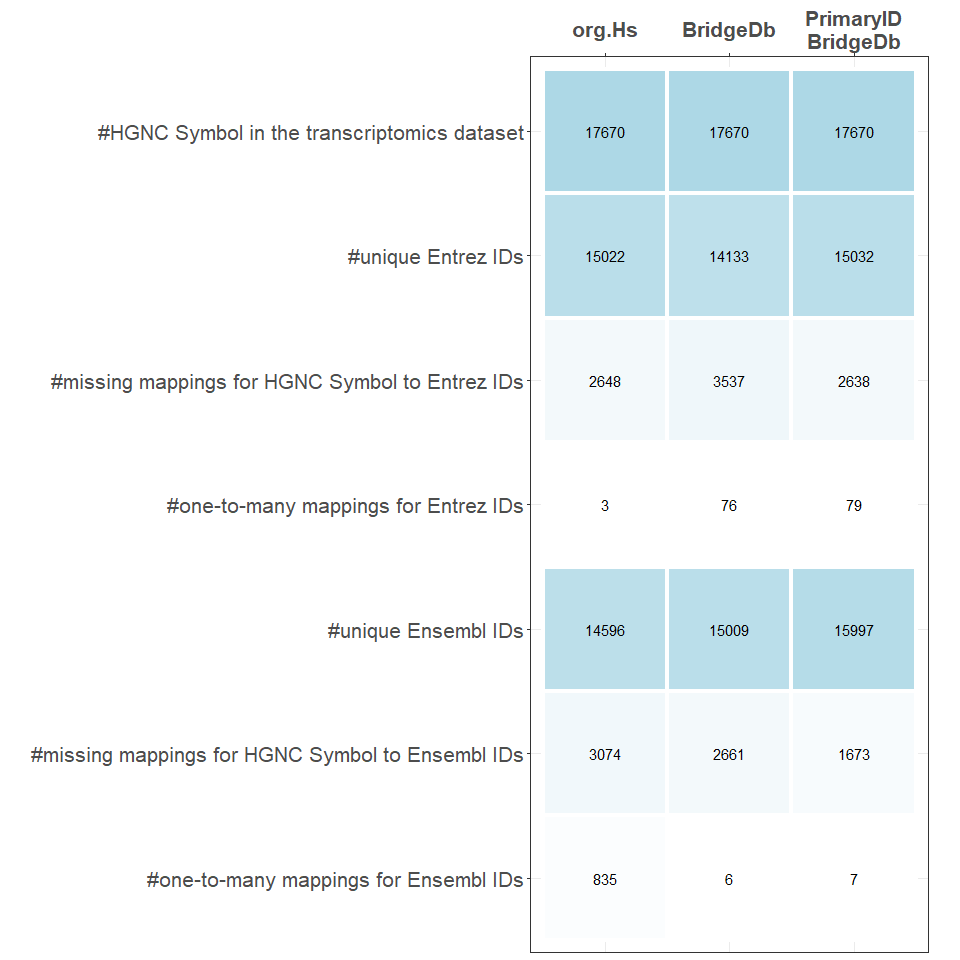
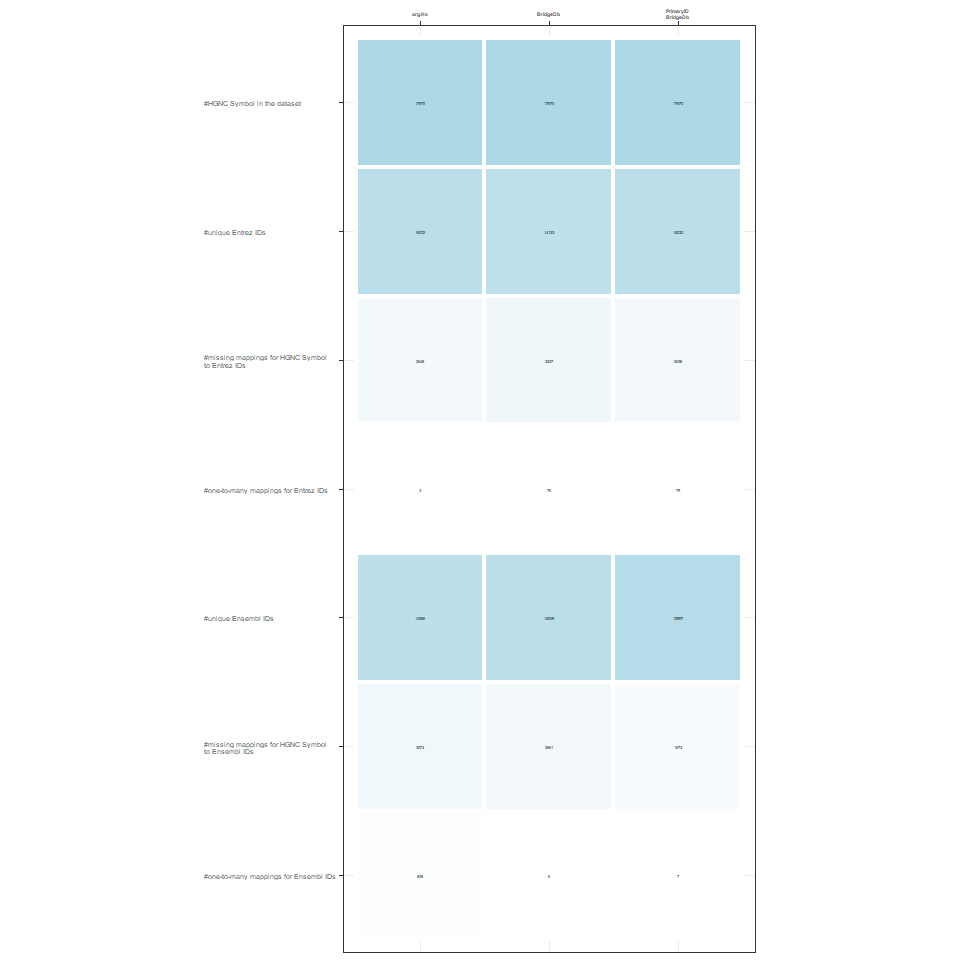
updating the scripts

diff --git a/scripts/2-pathway_analysis_transcriptomics/pathway_analysis_transcriptomics.md b/scripts/2-pathway_analysis_transcriptomics/pathway_analysis_transcriptomics.md
@@ -421,9 +421,13 @@ kable(MappingStats)
 
 ``` r
 CombinePWs_ileum_CD <- Reduce(function(x, y) merge(x, y, all = T), lapply(ls(pattern = "CombinePWs.ileum.*CD"), get), accumulate = F)
+CombinePWs_ileum_CD %>% write.table("results/CombinePWs.ileum_CD.txt", sep = "\t" , quote = FALSE, row.names = FALSE)
 CombinePWs_rectum_CD <- Reduce(function(x, y) merge(x, y, all = T), lapply(ls(pattern = "CombinePWs.rectum.*CD"), get), accumulate = F)
+CombinePWs_rectum_CD %>% write.table("results/CombinePWs.rectum_CD.txt", sep = "\t" , quote = FALSE, row.names = FALSE)
 CombinePWs_ileum_UC <- Reduce(function(x, y) merge(x, y, all = T), lapply(ls(pattern = "CombinePWs.ileum.*UC"), get), accumulate = F)
+CombinePWs_ileum_UC %>% write.table("results/CombinePWs.ileum_UC.txt", sep = "\t" , quote = FALSE, row.names = FALSE)
 CombinePWs_rectum_UC <- Reduce(function(x, y) merge(x, y, all = T), lapply(ls(pattern = "CombinePWs.rectum.*UC"), get), accumulate = F)
+CombinePWs_rectum_UC %>% write.table("results/CombinePWs.rectum_UC.txt", sep = "\t" , quote = FALSE, row.names = FALSE)
 
 #CD
 ##ileum
@@ -436,6 +440,10 @@ CombinePWs_ileum_CD_toPlot <- CombinePWs_ileum_CD_toPlot %>%
   reshape2::melt() %>%
   mutate(pathway = paste0(pathway, ":", CombinePWs_ileum_CD$pathwayTitle[match(pathway, CombinePWs_ileum_CD$pathway)]),
          value = ifelse (is.na(value), 0, value))
+
+(Int_PWs_ileum_CD <- unique(gsub (":.*", "", CombinePWs_ileum_CD_toPlot$pathway))) %>% 
+  write.table("results/Int_PWs_ileum_CD.txt", sep = "\t" , quote = FALSE, row.names = FALSE)
+
 ggplot(CombinePWs_ileum_CD_toPlot, aes(x = variable, y = pathway, fill = value)) +
   geom_tile(color = "white",
             lwd = 1.5,
@@ -463,6 +471,11 @@ CombinePWs_rectum_CD_toPlot <- CombinePWs_rectum_CD_toPlot %>%
   reshape2::melt() %>%
   mutate(pathway = paste0(pathway, ":", CombinePWs_rectum_CD$pathwayTitle[match(pathway, CombinePWs_rectum_CD$pathway)]),
          value = ifelse (is.na(value), 0, value))
+
+(Int_PWs_rectum_CD <- unique(gsub (":.*", "", CombinePWs_rectum_CD_toPlot$pathway))) %>% 
+  write.table("results/Int_PWs_rectum_CD.txt", sep = "\t" , quote = FALSE, row.names = FALSE)
+
+
 ggplot(CombinePWs_rectum_CD_toPlot, aes(x = variable, y = pathway, fill = value)) +
   geom_tile(color = "white",
             lwd = 1.5,
@@ -491,6 +504,10 @@ CombinePWs_ileum_UC_toPlot <- CombinePWs_ileum_UC_toPlot %>%
   reshape2::melt() %>%
   mutate(pathway = paste0(pathway, ":", CombinePWs_ileum_UC$pathwayTitle[match(pathway, CombinePWs_ileum_UC$pathway)]),
          value = ifelse (is.na(value), 0, value))
+
+(Int_PWs_ileum_UC <- unique(gsub (":.*", "", CombinePWs_ileum_UC_toPlot$pathway))) %>% 
+  write.table("results/Int_PWs_ileum_UC.txt", sep = "\t" , quote = FALSE, row.names = FALSE)
+
 ggplot(CombinePWs_ileum_UC_toPlot, aes(x = variable, y = pathway, fill = value)) +
   geom_tile(color = "white",
             lwd = 1.5,
@@ -518,6 +535,12 @@ CombinePWs_rectum_UC_toPlot <- CombinePWs_rectum_UC_toPlot %>%
   reshape2::melt() %>%
   mutate(pathway = paste0(pathway, ":", CombinePWs_rectum_UC$pathwayTitle[match(pathway, CombinePWs_rectum_UC$pathway)]),
          value = ifelse (is.na(value), 0, value))
+
+
+(Int_PWs_rectum_UC <- unique(gsub (":.*", "", CombinePWs_rectum_UC_toPlot$pathway))) %>% 
+  write.table("results/Int_PWs_rectum_UC.txt", sep = "\t" , quote = FALSE, row.names = FALSE)
+
+
 ggplot(CombinePWs_rectum_UC_toPlot, aes(x = variable, y = pathway, fill = value)) +
   geom_tile(color = "white",
             lwd = 1.5,
@@ -529,7 +552,46 @@ ggplot(CombinePWs_rectum_UC_toPlot, aes(x = variable, y = pathway, fill = value)
   theme(axis.text.x = element_text(angle = 90, vjust = 0.5, hjust = 1, size = 16),
         axis.text.y = element_text(size = 16),
         legend.position = "none") +
-  ggtitle("UC (rectum location)")
+  ggtitle("UC (rectum location)") 
 ```
 
 ![](pathway_analysis_transcriptomics_files/figure-markdown_github/Comparison-4.png)
+
+##Print session info and remove datasets:
+
+    ## R version 4.1.2 (2021-11-01)
+    ## Platform: x86_64-w64-mingw32/x64 (64-bit)
+    ## Running under: Windows 10 x64 (build 22000)
+    ## 
+    ## Matrix products: default
+    ## 
+    ## locale:
+    ## [1] LC_COLLATE=English_United Kingdom.1252 
+    ## [2] LC_CTYPE=English_United Kingdom.1252   
+    ## [3] LC_MONETARY=English_United Kingdom.1252
+    ## [4] LC_NUMERIC=C                           
+    ## [5] LC_TIME=English_United Kingdom.1252    
+    ## 
+    ## attached base packages:
+    ## [1] stats     graphics  grDevices utils     datasets  methods   base     
+    ## 
+    ## other attached packages:
+    ## [1] ggplot2_3.3.6     reshape2_1.4.4    SPARQL_1.16       RCurl_1.98-1.6   
+    ## [5] XML_3.99-0.10     knitr_1.39        data.table_1.14.2 dplyr_1.0.9      
+    ## [9] rstudioapi_0.13  
+    ## 
+    ## loaded via a namespace (and not attached):
+    ##  [1] Rcpp_1.0.8.3        highr_0.9           pillar_1.7.0       
+    ##  [4] compiler_4.1.2      BiocManager_1.30.18 plyr_1.8.7         
+    ##  [7] bitops_1.0-7        tools_4.1.2         digest_0.6.29      
+    ## [10] gtable_0.3.0        evaluate_0.15       lifecycle_1.0.1    
+    ## [13] tibble_3.1.7        pkgconfig_2.0.3     rlang_1.0.2        
+    ## [16] cli_3.2.0           DBI_1.1.3           yaml_2.3.5         
+    ## [19] xfun_0.31           fastmap_1.1.0       withr_2.5.0        
+    ## [22] stringr_1.4.0       generics_0.1.2      vctrs_0.4.1        
+    ## [25] grid_4.1.2          tidyselect_1.1.2    glue_1.6.2         
+    ## [28] R6_2.5.1            fansi_1.0.3         rmarkdown_2.14     
+    ## [31] farver_2.1.0        purrr_0.3.4         magrittr_2.0.3     
+    ## [34] scales_1.2.0        ellipsis_0.3.2      htmltools_0.5.2    
+    ## [37] assertthat_0.2.1    colorspace_2.0-3    utf8_1.2.2         
+    ## [40] stringi_1.7.6       munsell_0.5.0       crayon_1.5.1

diff --git a/scripts/1-identifier_mapping_transcriptomics/identifier_mapping_transcriptomics.md b/scripts/1-identifier_mapping_transcriptomics/identifier_mapping_transcriptomics.md
@@ -464,15 +464,17 @@ rm(list = setdiff(ls(), c("dataset_UC", "dataset_CD", "entrezID_doubles_Hs", "en
 
 ##Mapping stats:
 
-| stats                                            | org.Hs | BridgeDb | PrimaryID_BridgeDb |
+| stats                                 | org.Hs | BridgeDb | PrimaryID_BridgeDb |
 |:----------------------------------------|------:|--------:|----------------:|
-| #HGNC Symbol in the transcriptomics dataset      |  17670 |    17670 |              17670 |
-| #unique Entrez IDs                               |  15022 |    14133 |              15032 |
-| #missing mappings for HGNC Symbol to Entrez IDs  |   2648 |     3537 |               2638 |
-| #one-to-many mappings for Entrez IDs             |      3 |       76 |                 79 |
-| #unique Ensembl IDs                              |  14596 |    15009 |              15997 |
-| #missing mappings for HGNC Symbol to Ensembl IDs |   3074 |     2661 |               1673 |
-| #one-to-many mappings for Ensembl IDs            |    835 |        6 |                  7 |
+| #HGNC Symbol in the dataset           |  17670 |    17670 |              17670 |
+| #unique Entrez IDs                    |  15022 |    14133 |              15032 |
+| #missing mappings for HGNC Symbol     |        |          |                    |
+| to Entrez IDs                         |   2648 |     3537 |               2638 |
+| #one-to-many mappings for Entrez IDs  |      3 |       76 |                 79 |
+| #unique Ensembl IDs                   |  14596 |    15009 |              15997 |
+| #missing mappings for HGNC Symbol     |        |          |                    |
+| to Ensembl IDs                        |   3074 |     2661 |               1673 |
+| #one-to-many mappings for Ensembl IDs |    835 |        6 |                  7 |
 
 ![](identifier_mapping_transcriptomics_files/figure-markdown_github/mappingStats-1.png)
 
